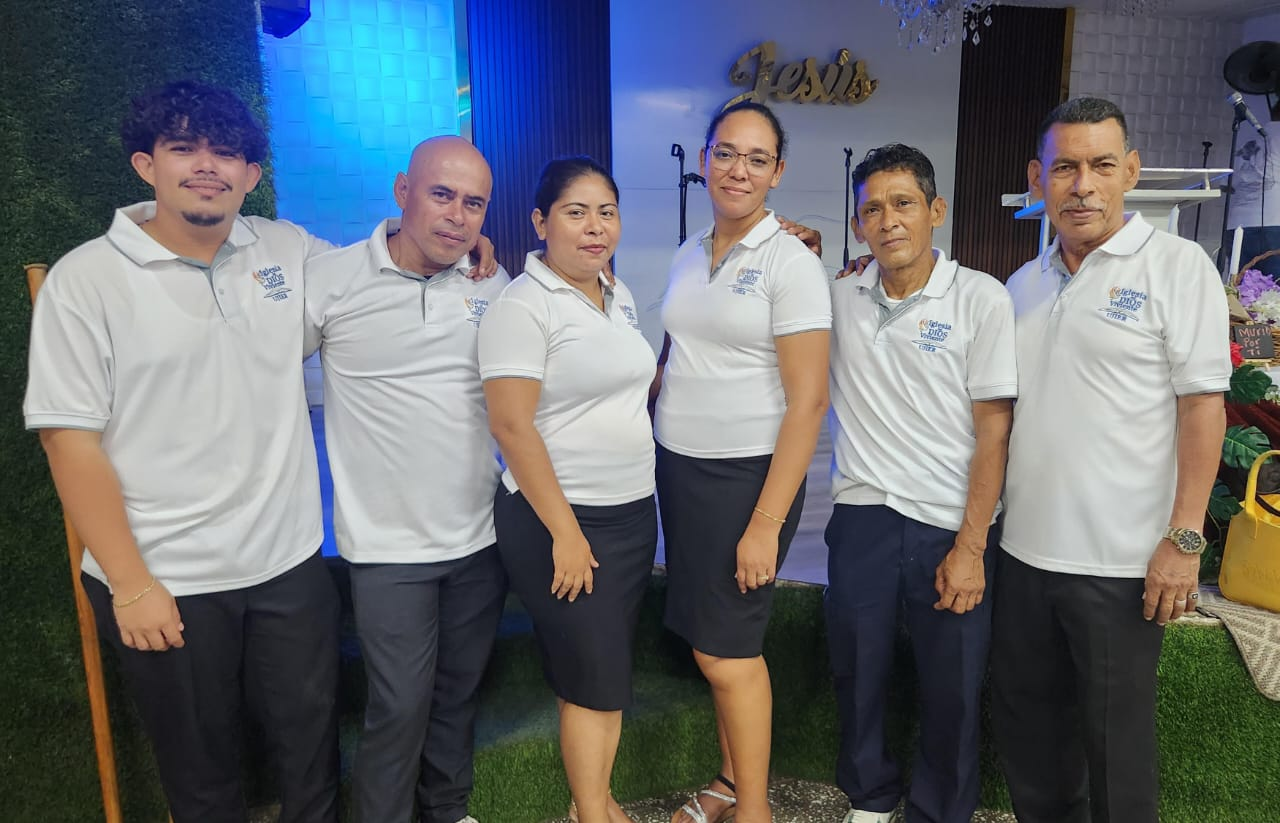
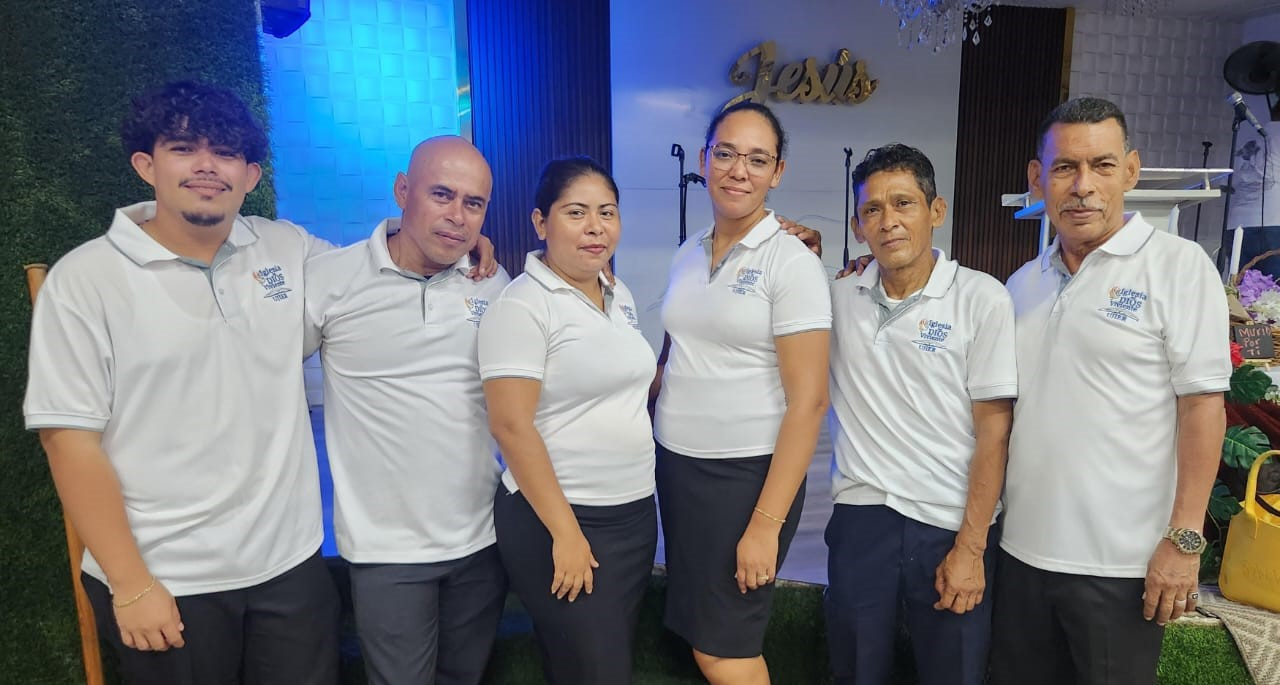
agregamos mas imagenes

diff --git a/Index.html b/Index.html
@@ -99,7 +99,7 @@
                     <p>
                         Somos la Iglesia del Dios Viviente, una comunidad de fe
                         que forma parte de la cadena de iglesias menonitas en
-                        Nicaragua.Nuestro compromiso es vivir y compartir el
+                        Nicaragua. Nuestro compromiso es vivir y compartir el
                         Evangelio de
                         Jesucristo, cumpliendo el llamado de
                         <br><br>
@@ -246,12 +246,12 @@
                         <p>Ministerio Juvenil</p>
                     </div>
                     <div class="carousel__elemento">
-                        <img loading="lazy" src="images/Backg_Carousel.png"
+                        <img loading="lazy" src="images/Ministerios/Ministerio_Dorcas.jpg"
                             alt="MDR" />
                         <p>Ministerio de Dorcas</p>
                     </div>
                     <div class="carousel__elemento">
-                        <img loading="lazy" src="images/Backg_Carousel.png"
+                        <img loading="lazy" src="images/Ministerios/Ministerio_Ujieres.jpg"
                             alt="MU" />
                         <p>Ministerio de Ujieres</p>
                     </div>
@@ -366,20 +366,17 @@
 
                     <!-- Duplicadas para efecto infinito -->
                     <div class="collage-item"><img loading="lazy"
-                            src="/images/1.webp"
+                            src="/images/ImgD/dominical01.jpg"
                             alt="Collage 1" /></div>
                     <div class="collage-item"><img loading="lazy"
-                            src="/images/1.webp"
+                            src="/images/ImgD/dominical02.jpg"
                             alt="Collage 2" /></div>
                     <div class="collage-item"><img loading="lazy"
-                            src="/images/1.webp"
+                            src="/images/ImgD/dominical04.jpg"
                             alt="Collage 3" /></div>
                     <div class="collage-item"><img loading="lazy"
-                            src="/images/1.webp"
+                            src="/images/ImgD/dominical04.jpg"
                             alt="Collage 4" /></div>
-                    <div class="collage-item"><img loading="lazy"
-                            src="/images/1.webp"
-                            alt="Collage 5" /></div>
                 </div>
             </div>
         </section>
